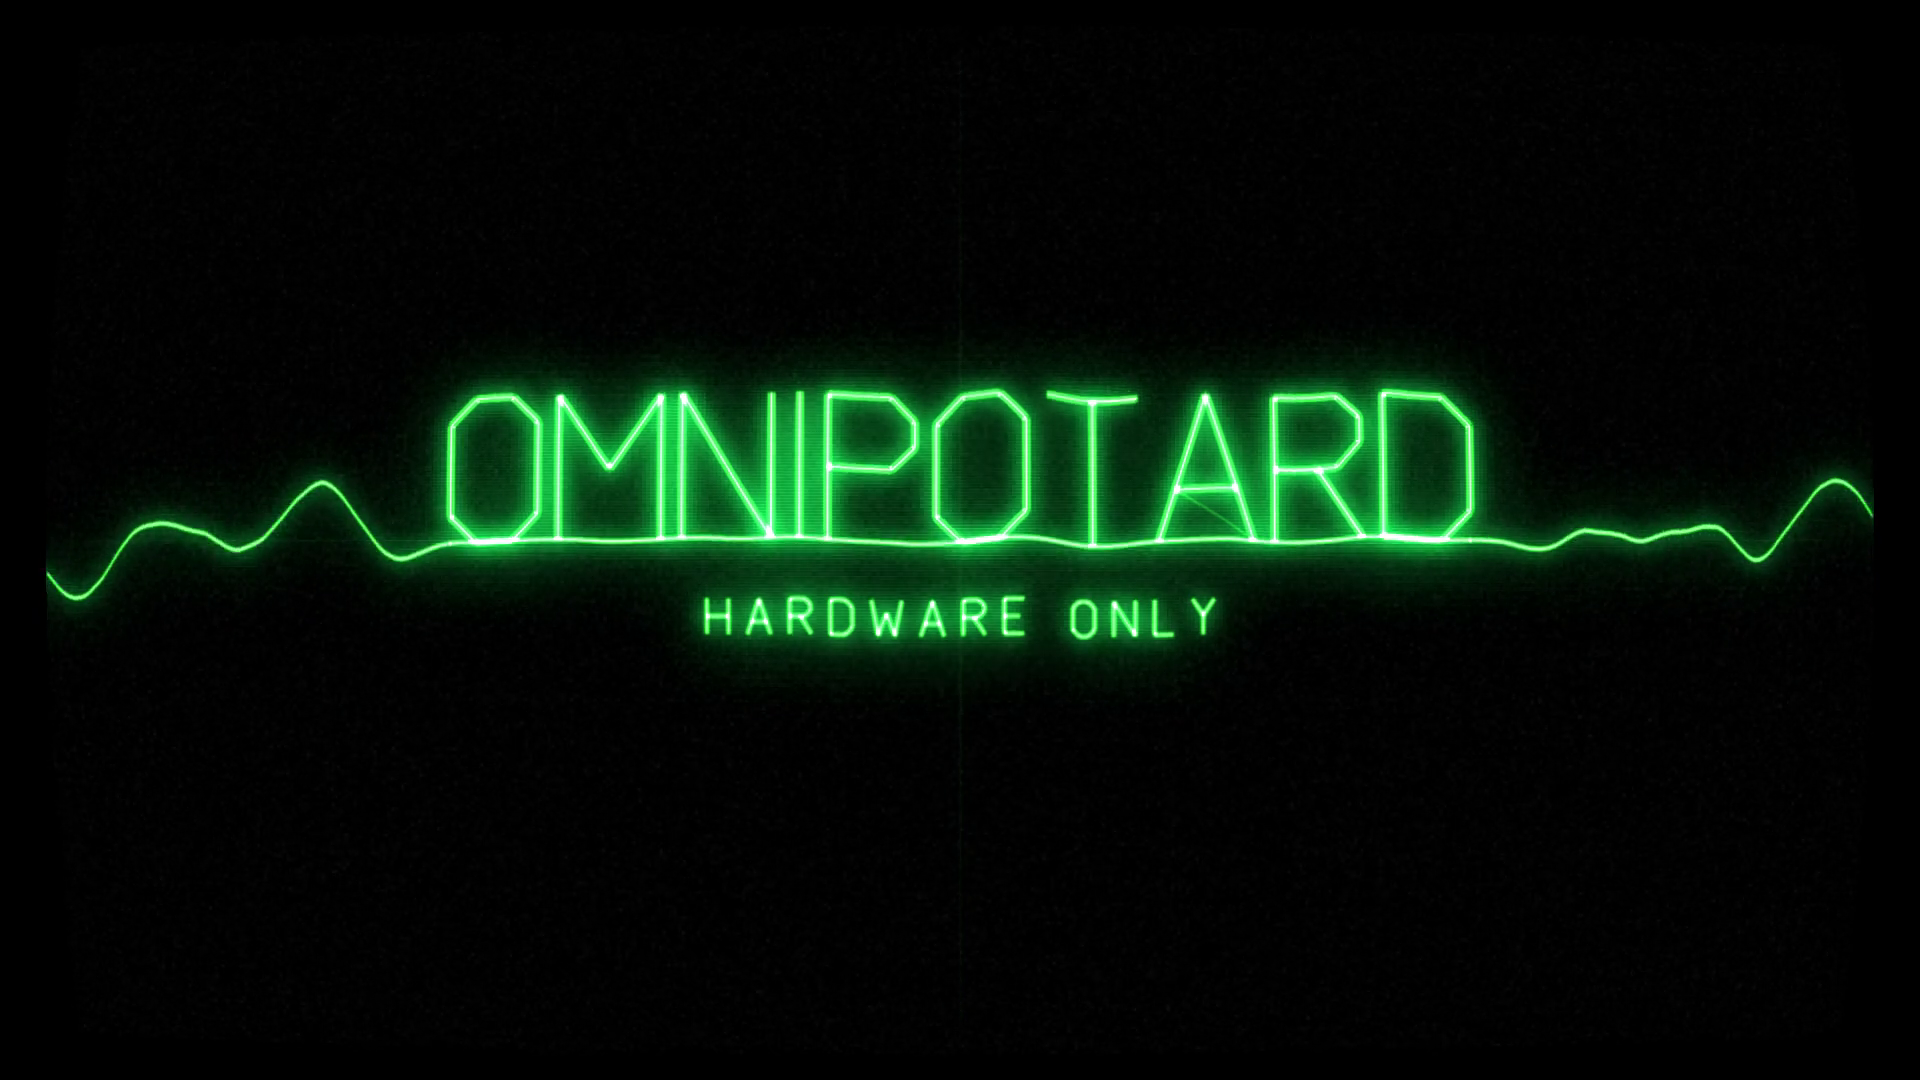
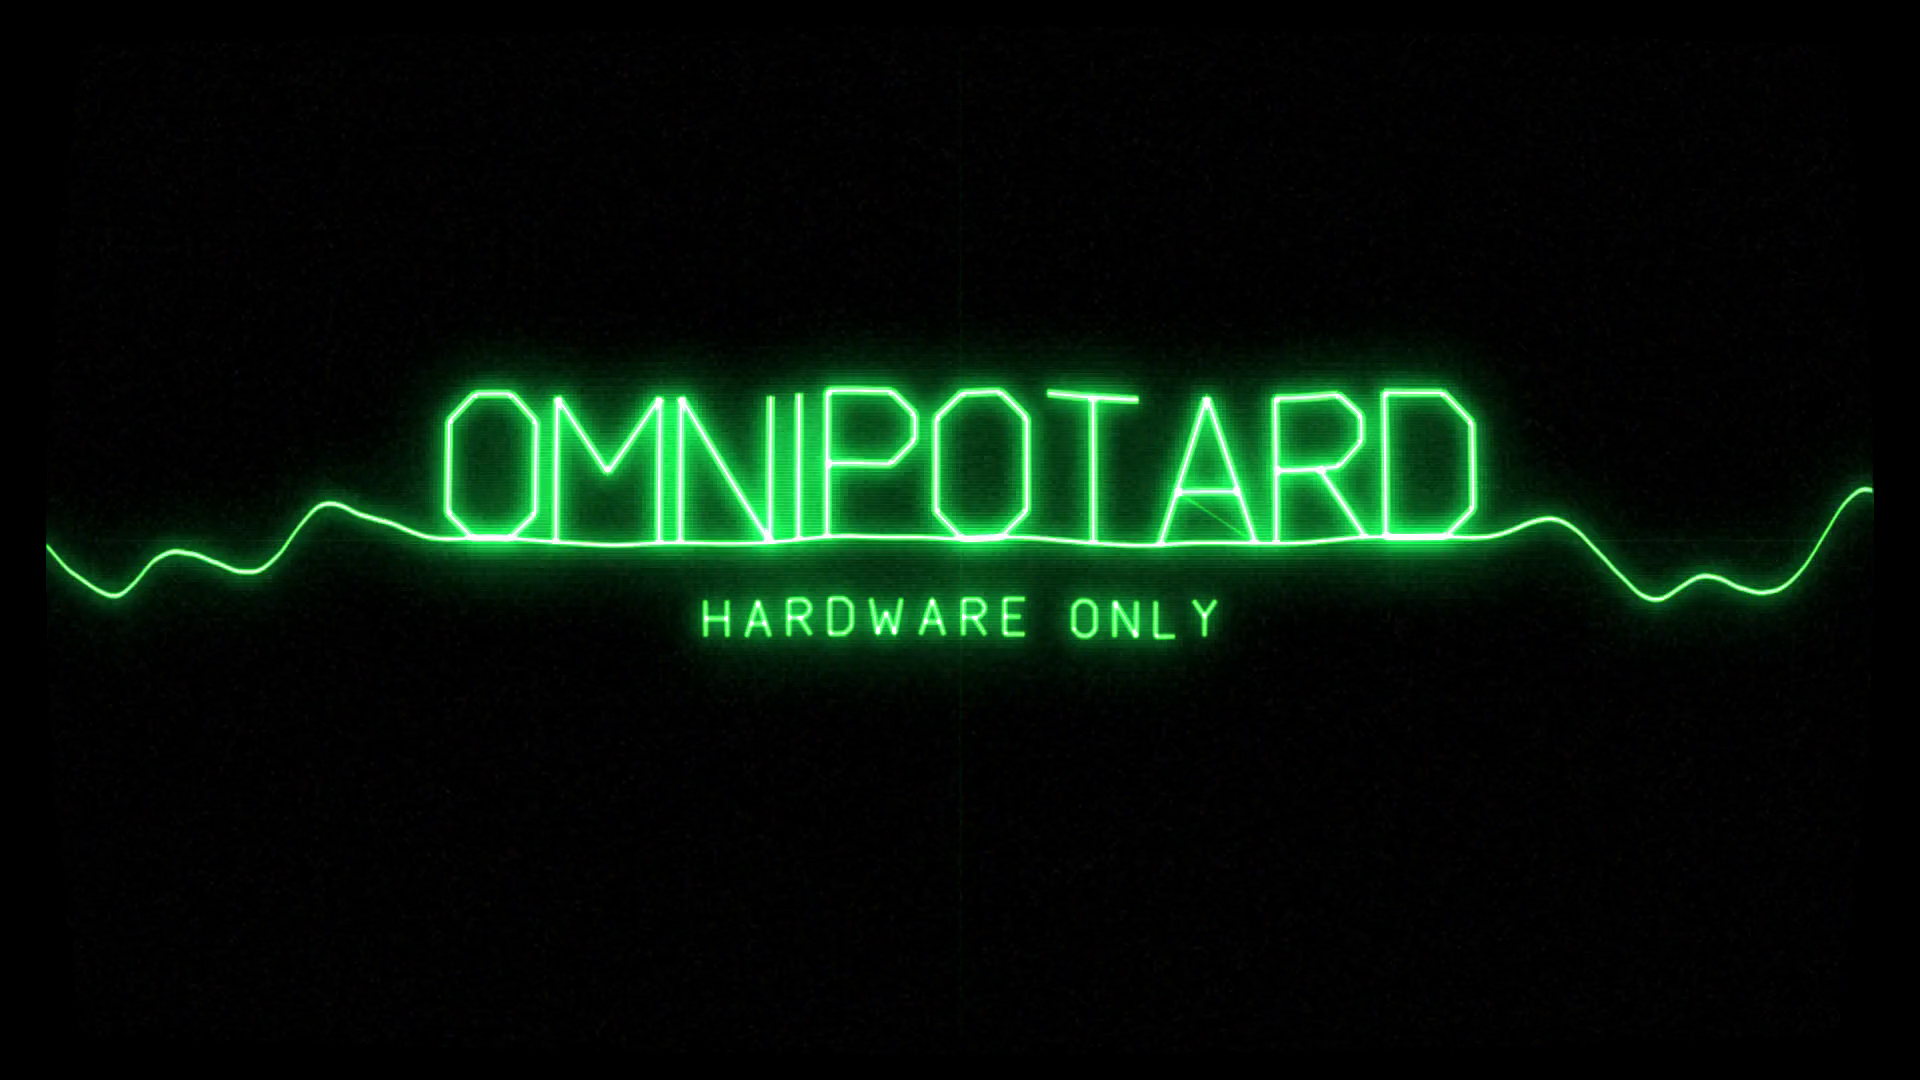
Utiliser un morceau existant, pads cales sur sa vraie batterie
- Nouveau bloc de chargement : decodage d'un extrait, detection du tempo par
  autocorrelation de la courbe d'attaque (avec correction d'octave, sinon un
  extrait court fait attraper la demi-periode) et detection des coups par
  bande. Grave, medium et aigu deviennent grosse caisse, caisse claire et
  charley, chaque famille gardant son pad pour qu'on reconnaisse l'instrument
  a l'endroit ou il s'allume. Un decalage compense la latence de detection.
- L'extrait est choisi a 19,82 s : le morceau y enchaine musique, break d'une
  seconde puis drop sur une barre de mesure, ce qui epouse exactement la
  dramaturgie de l'image. La timeline est recalee sur son tempo (84,7 BPM) et
  le drop tombe a la milliseconde sur le debut du groove.
- Montage : le morceau est etouffe avant le drop, evide de ses graves et
  baisse pendant le break, rouvert sur l'impact, puis ferme a l'extinction.
- Les FX de synthese sont conserves tels quels : souffle d'entree, souffle du
  break, impact du titre, souffle et coup de sortie.
- La bande-son entierement synthetique reste accessible via --synth, et sert
  de repli automatique si le morceau est absent.
- Le morceau n'est pas versionne : il se depose dans assets/.

Claude-Session: https://claude.ai/code/session_01GX8QgDCpZfSKkT6ycQpRqH

Changed region(s): [[0.0, 0.3361, 0.9688, 0.5806], [0.3438, 0.55, 0.5312, 0.6111], [0.5625, 0.55, 0.6562, 0.6111]]

diff --git a/tools/omnipotard_intro.py b/tools/omnipotard_intro.py
@@ -39,7 +39,9 @@ VERT_FLUO = (0.24, 1.00, 0.16)   # #39FF14
 VERT_HALO = (0.10, 1.00, 0.34)   # halo legerement plus froid
 
 SR = 48000
-DUREE_REF = 9.625                # 20 temps a 125 BPM
+DUREE_REF = 9.916                # 14 temps a 84,7 BPM (le tempo du morceau)
+MUSIC_PATH = "assets/hint.mp3"   # morceau utilise ; --music pour en changer
+MUSIC_START = 19.8209             # le drop du morceau tombe pile sur la barre
 
 
 # ==========================================================================
@@ -666,7 +668,8 @@ def synth_audio(duration=DUREE_REF, sr=SR, seed=3):
     st = np.stack([mix, right], axis=1)
     events.sort()
     return {"stereo": (np.clip(st, -1, 1) * 32767).astype("<i2"),
-            "mono": mix.astype(np.float32), "events": events, "sr": sr}
+            "mono": mix.astype(np.float32), "events": events, "sr": sr,
+            "beat": beat}
 
 
 def write_wav(path, data, sr=SR):
@@ -683,14 +686,14 @@ def write_wav(path, data, sr=SR):
 
 class Timeline:
     REF = DUREE_REF
-    KEYS = [                        # cales sur les temps (0,48125 s)
-        ("boot", 0.0000, 0.9625),   # la piste s'enregistre
-        ("sweep", 0.9625, 3.3688),  # le clip se transforme en machine
-        ("groove", 2.8875, 4.8125),  # le drop tombe avant la fin de la mue : la
-        ("melt", 4.8125, 5.7750),   # machine joue deja pendant qu'elle se
-        ("title", 5.7750, 8.1813),  # termine, ce qui resserre le montage
-        ("hold", 8.1813, 9.3500),
-        ("out", 9.3500, 9.6250),
+    KEYS = [                        # cales sur les temps du morceau (0,7082 s)
+        ("boot", 0.0000, 1.0623),   # la piste s'enregistre, sur la musique
+        ("sweep", 1.0623, 3.1870),  # la mue se joue pendant le break du morceau
+        ("groove", 2.8329, 5.6658),  # le drop du morceau, une mesure pleine
+        ("melt", 5.6658, 6.3740),
+        ("title", 6.3740, 8.4987),
+        ("hold", 8.4987, 9.5610),
+        ("out", 9.5610, 9.9160),
     ]
 
     def __init__(self, duration):
@@ -709,8 +712,8 @@ class Timeline:
         return self.seg[name][1]
 
 
-GLITCHES = [(2.87, .09), (3.85, .05), (4.79, .10), (5.75, .11),
-            (8.17, .06), (8.80, .05), (9.10, .06)]
+GLITCHES = [(2.82, .09), (3.90, .05), (5.64, .10), (6.36, .11),
+            (8.49, .06), (9.00, .05), (9.35, .06)]
 
 
 # ==========================================================================
@@ -743,8 +746,8 @@ class Renderer:
         self.tl = Timeline(duration)
         self.curve = curve
         self.seed = seed
-        self.bar = duration / 4.0
-        self.six = self.bar / 16.0
+        self.beat = float(audio.get("beat") or duration / 20.0)
+        self.six = self.beat / 4.0           # la double-croche du morceau
 
         # la machine reste cadree quel que soit le format (16/9, carre, vertical)
         self.scale = min(h * 0.5, w * 0.5 / 1.30)
@@ -1437,13 +1440,26 @@ def main():
     ap.add_argument("--crf", type=int, default=16)
     ap.add_argument("--jobs", type=int, default=os.cpu_count() or 2)
     ap.add_argument("--seed", type=int, default=7)
+    ap.add_argument("--music", default=MUSIC_PATH,
+                    help="morceau a utiliser ; vide ou --synth pour la musique de synthese")
+    ap.add_argument("--music-start", type=float, default=MUSIC_START,
+                    help="debut de l'extrait dans le morceau (s)")
+    ap.add_argument("--synth", action="store_true", help="force la bande-son de synthese")
     ap.add_argument("--no-curve", action="store_true", help="desactive la courbure CRT")
     ap.add_argument("--no-audio", action="store_true", help="video muette (l'image reste pilotee par le son)")
     ap.add_argument("--stills", default="", help="dossier ou exporter des images cles PNG")
     ap.add_argument("--still-times", default="0.9,1.7,2.1,2.6,4.2,6.2,7.6,8.4,9.1,10.0,10.8")
     args = ap.parse_args()
 
-    audio = synth_audio(args.duration, seed=args.seed)
+    if args.synth or not args.music or not os.path.exists(args.music):
+        if args.music and not args.synth and not os.path.exists(args.music):
+            print("morceau introuvable (%s) -> bande-son de synthese" % args.music, flush=True)
+        audio = synth_audio(args.duration, seed=args.seed)
+    else:
+        audio = load_music(args.music, args.duration, args.music_start, seed=args.seed)
+        print("morceau %s  extrait a %.2f s  battement %.4f s (%.1f BPM)  %d coups detectes"
+              % (args.music, args.music_start, audio["beat"], 60.0 / audio["beat"],
+                 len(audio["events"])), flush=True)
 
     global _R
     _R = Renderer(args.width, args.height, args.fps, args.duration, audio,
@@ -1502,6 +1518,159 @@ def main():
     print("\n%s  (%.1f s, %dx%d @ %dfps)" % (args.out, args.duration, args.width,
                                              args.height, args.fps))
 
+
+
+# ==========================================================================
+#  Morceau existant : chargement, analyse de la batterie, montage
+#  L'image reste pilotee par le son — les pads suivent donc les vrais coups.
+# ==========================================================================
+
+def _decode(path, start, duration, sr=SR):
+    """Decode un extrait en stereo flottant (recherche precise a l'echantillon)."""
+    out = subprocess.run(
+        ["ffmpeg", "-v", "error", "-i", path, "-ss", "%.6f" % start,
+         "-t", "%.6f" % duration, "-ac", "2", "-ar", str(sr), "-f", "f32le", "-"],
+        stdout=subprocess.PIPE, check=True).stdout
+    st = np.frombuffer(out, dtype="<f4").astype(np.float64).reshape(-1, 2)
+    n = int(duration * sr) + 1
+    if len(st) < n:
+        st = np.vstack([st, np.zeros((n - len(st), 2))])
+    return st[:n]
+
+
+def _frames(x, sr, hop=256, win=1024):
+    n = max(1, (len(x) - win) // hop)
+    idx = np.arange(n)[:, None] * hop + np.arange(win)[None, :]
+    S = np.abs(np.fft.rfft(x[idx] * np.hanning(win), axis=1))
+    return S, np.fft.rfftfreq(win, 1.0 / sr), sr / hop
+
+
+def _band_flux(S, freqs, lo, hi):
+    e = S[:, (freqs >= lo) & (freqs < hi)].sum(axis=1)
+    return np.maximum(np.diff(e, prepend=e[0]), 0.0)
+
+
+def _pick(flux, fps, thresh=2.0, gap=0.055):
+    """Sommets d'une courbe d'attaque -> (instant, force)."""
+    f = _lowpass(flux / (flux.std() + 1e-9), 3)
+    cand = np.where((f[1:-1] > thresh) & (f[1:-1] >= f[:-2]) & (f[1:-1] >= f[2:]))[0] + 1
+    out, last = [], -9.0
+    for i in cand:
+        t = i / fps
+        if t - last >= gap:
+            out.append((t, float(min(1.0, f[i] / (thresh * 2.6)))))
+            last = t
+    return out
+
+
+def detect_beat(mono, sr):
+    """Periode du battement, par autocorrelation de la courbe d'attaque."""
+    S, freqs, fps = _frames(mono, sr)
+    onset = sum(_band_flux(S, freqs, lo, hi) / (_band_flux(S, freqs, lo, hi).std() + 1e-9)
+                for lo, hi in ((30, 140), (160, 1200), (4000, 10000)))
+    o = onset - onset.mean()
+    ac = np.correlate(o, o, mode="full")[len(o) - 1:]
+    lags = np.arange(len(ac)) / fps
+    sel = (lags > 0.30) & (lags < 1.10)
+    i0 = int(np.where(sel)[0][0])
+    best = int(np.argmax(ac[sel])) + i0
+    # correction d'octave : sur un extrait court, l'autocorrelation attrape
+    # souvent la demi-periode. On remonte tant que le double est presque
+    # aussi fort et reste dans une plage de tempo credible.
+    for _ in range(2):
+        dbl = best * 2
+        if dbl < len(ac) and lags[dbl] < 1.10 and ac[dbl] > 0.72 * ac[best]:
+            best = dbl
+    return float(lags[best])
+
+
+def detect_hits(mono, sr):
+    """Coups de batterie par bande -> evenements de pads.
+
+    grave -> grosse caisse, medium -> caisse claire et percussions,
+    aigu -> charleston. Chaque famille garde le meme pad, pour qu'on
+    reconnaisse l'instrument a l'endroit ou il s'allume.
+    """
+    S, freqs, fps = _frames(mono, sr)
+    lag = 0.025          # la detection voit l'attaque au debut de sa fenetre
+    ev = []
+    for (lo, hi), kind, thresh, gap in (((30, 140), "kick", 2.1, 0.14),
+                                        ((160, 1200), "rim", 2.3, 0.10),
+                                        ((4000, 10000), "hat", 2.0, 0.055)):
+        for i, (t, f) in enumerate(_pick(_band_flux(S, freqs, lo, hi), fps, thresh, gap)):
+            if kind == "kick":
+                pads = (PAD_OF["kick"],) if f > 0.45 else (1,)
+            elif kind == "rim":
+                pads = (PAD_OF["rim"],) if f > 0.55 else (PAD_OF["perc"],)
+            else:
+                pads = (10, 11)[i % 2],
+            for pad in pads:
+                ev.append((t + lag, pad, max(0.30, f), DECAY_OF[kind]))
+    ev.sort()
+    return ev
+
+
+def _ramp(t, pts):
+    return np.interp(t, [p[0] for p in pts], [p[1] for p in pts])
+
+
+def load_music(path=MUSIC_PATH, duration=DUREE_REF, start=MUSIC_START, sr=SR, seed=3):
+    """Monte un extrait du morceau sur la scenographie, y ajoute les FX de
+    synthese (souffles, impact, sortie) et en extrait la batterie."""
+    tl = Timeline(duration)
+    st = _decode(path, start, duration, sr)
+    n = len(st)
+    mono_src = st.mean(axis=1)
+    beat = detect_beat(mono_src, sr)
+    events = detect_hits(mono_src, sr)
+
+    t = np.arange(n) / sr
+    g0 = tl.start("groove")
+    m0, t0, o0 = tl.start("melt"), tl.start("title"), tl.start("out")
+
+    # --- montage : le morceau est mat avant le drop, evide pendant le break
+    dull = np.stack([_lowpass(st[:, c], 42) for c in range(2)], axis=1)
+    thin = st - np.stack([_lowpass(st[:, c], 30) for c in range(2)], axis=1)
+    a_dull = _ramp(t, [(0, .80), (g0 - 0.30, .70), (g0 - 0.02, .05), (g0, 0)])[:, None]
+    a_thin = _ramp(t, [(0, 0), (m0 - 0.02, 0), (m0 + 0.10, .85), (t0 - 0.12, .85),
+                       (t0, 0)])[:, None]
+    gain = _ramp(t, [(0, .62), (g0 - 0.02, .70), (g0, 1.0), (m0, 1.0), (m0 + 0.10, .55),
+                     (t0, 1.0), (o0, 1.0), (o0 + 0.16, 0.0)])[:, None]
+    mix = (st * (1.0 - a_dull - a_thin) + dull * a_dull + thin * a_thin) * gain
+
+    # --- les FX, conserves tels quels
+    rng = np.random.default_rng(seed)
+    fx = np.zeros(n)
+
+    def add(sig, at, g=1.0):
+        i0 = max(0, int(at * sr))
+        i1 = min(n, i0 + len(sig))
+        if i1 > i0:
+            fx[i0:i1] += sig[:i1 - i0] * g
+
+    add(_whoosh(max(0.2, g0 - 0.02), sr, rng, up=True), 0.02, 1.05)     # riser d'entree
+    add(_whoosh(max(0.2, t0 - m0), sr, rng, up=True), m0, 1.15)         # riser du break
+    ti = np.arange(int(min(3.0, duration - t0) * sr)) / sr              # impact du titre
+    fi = 30.0 + 120.0 * np.exp(-ti * 9.0)
+    imp = np.sin(2 * math.pi * np.cumsum(fi) / sr) * np.exp(-ti * 1.9) * 0.80
+    imp += _lowpass(rng.standard_normal(len(ti)), 12) * np.exp(-ti * 3.5) * 0.22
+    add(imp, t0)
+    add(_whoosh(0.30, sr, rng, up=True), o0 - 0.24, 0.85)               # sortie
+    add(_whoosh(max(0.12, duration - o0), sr, rng, up=False), o0, 0.95)
+    tq = np.arange(int(min(0.35, duration - o0) * sr)) / sr
+    fq = 90.0 * np.exp(-tq * 14.0) + 26.0
+    add(np.sin(2 * math.pi * np.cumsum(fq) / sr) * np.exp(-tq * 7.0) * 0.55, o0)
+    fx *= _ramp(t, [(0, 1), (o0 + 0.20, 1), (duration, 0)])
+
+    mix += fx[:, None] * 0.95
+    mix = _tanh_limit(mix * 0.92, 1.35)
+    fade = (np.clip(t / 0.03, 0, 1) * np.clip((duration - t) / 0.10, 0, 1))[:, None]
+    mix *= fade
+    mix /= (np.max(np.abs(mix)) or 1.0) / 0.94
+
+    m = mix.mean(axis=1)
+    return {"stereo": (np.clip(mix, -1, 1) * 32767).astype("<i2"),
+            "mono": m.astype(np.float32), "events": events, "sr": sr, "beat": beat}
 
 if __name__ == "__main__":
     main()

diff --git a/README.md b/README.md
@@ -7,20 +7,20 @@ sort, écrit d'un seul trait continu par la courbe audio.
 
 ![affiche](out/omnipotard_poster.png)
 
-## Le déroulé (9,6 s — 20 temps à 125 BPM, 1920×1080 @ 60 fps)
+## Le déroulé (9,9 s — 14 temps à 84,7 BPM, calé sur le morceau)
 
 Tout est calé sur la grille musicale : le balayage se termine **pile sur le
 drop**, et le titre apparaît **pile sur l'impact**.
 
 | temps | séquence | ce qui se passe |
 |---|---|---|
-| 0,0 – 0,96 s | **enregistrement** | une piste s'enregistre comme dans une station de travail : cadre de clip, bandeau « AUDIO 01 », règle temporelle, témoin REC, et la **forme d'onde du morceau** qui se remplit de gauche à droite derrière la tête d'enregistrement |
-| 0,96 – 3,37 s | **transformation** | le clip **se déplie en MPC Live III** : chaque point de la machine part écrasé dans l'enveloppe de la forme d'onde et s'ouvre à sa place, de gauche à droite. La zone de mue est large — à chaque instant une bonne partie de la machine est en train de s'ouvrir |
-| 2,89 – 4,81 s | **groove dub techno** | le drop tombe **avant la fin de la mue** : la machine joue déjà (pads, bande de 16 pas, écran) pendant que son flanc droit finit de se déployer |
-| 4,81 – 5,78 s | **break** | souffle ; la machine fond dans la forme d'onde du morceau |
-| 5,78 – 8,18 s | **titre** | impact, puis un front de lecture **balaie lentement de gauche à droite** : les lettres se détachent du fil d'onde une par une, puis **HARDWARE ONLY** passe sous le nom |
-| 8,18 – 9,35 s | **maintien** | le logo repose sur le fil, qui continue de vibrer avec la musique |
-| 9,35 – 9,63 s | **extinction** | **rafales de glitch** (déchirures, datamosh, pertes de signal, décalage RVB), souffle de sortie, puis collapse cathodique |
+| 0,0 – 1,06 s | **enregistrement** | une piste s'enregistre comme dans une station de travail : cadre de clip, bandeau « AUDIO 01 », règle temporelle, témoin REC, et la **forme d'onde du morceau** qui se remplit derrière la tête d'enregistrement. Le morceau joue, étouffé |
+| 1,06 – 3,19 s | **transformation** | le clip **se déplie en MPC Live III**, pendant le break du morceau — chaque point de la machine part écrasé dans l'enveloppe de la forme d'onde et s'ouvre à sa place |
+| 2,83 – 5,67 s | **groove** | **le drop du morceau** tombe pile ici, avant la fin de la mue : la machine joue déjà pendant que son flanc droit finit de se déployer |
+| 5,67 – 6,37 s | **break** | le morceau est évidé de ses graves et baissé, un souffle monte, la machine fond dans la forme d'onde |
+| 6,37 – 8,50 s | **titre** | impact, puis un front de lecture **balaie lentement de gauche à droite** : les lettres se détachent du fil d'onde une par une, puis **HARDWARE ONLY** passe sous le nom |
+| 8,50 – 9,56 s | **maintien** | le logo repose sur le fil, qui continue de vibrer avec la musique |
+| 9,56 – 9,92 s | **extinction** | **rafales de glitch**, souffle de sortie, puis collapse cathodique |
 
 ## L'image est pilotée par le son
 
@@ -36,8 +36,10 @@ refaire à la main :
   toute l'image et le mot est **posé dessus** : logo et onde ne font qu'un trait ;
 - le clip d'ouverture affiche l'enveloppe crête **du morceau lui-même** : on y
   voit le drop, le groove, le break, l'impact et la traîne ;
-- chaque pad s'allume sur l'évènement qui le déclenche : grosse caisse, rimshot,
-  charley, notes de basse, accords ;
+- **les pads suivent la vraie batterie du morceau** : le script détecte les
+  attaques par bande (grave → grosse caisse, medium → caisse claire et
+  percussions, aigu → charley) et chaque famille garde son pad, pour qu'on
+  reconnaisse l'instrument à l'endroit où il s'allume ;
 - la bande de 16 pas suit le pas courant du séquenceur ;
 - le fil d'onde **s'allume légèrement à chaque coup grave** (grosse caisse et
   notes de basse), avec un halo qui s'ajoute au trait ;
@@ -63,11 +65,15 @@ marquage et grille de haut-parleur en bas.
 ```bash
 pip install numpy pillow          # pillow seulement pour --stills
 sudo apt install ffmpeg
+# placer le morceau dans assets/hint.mp3 (non versionné), puis :
 python3 tools/omnipotard_intro.py -o out/omnipotard_intro_1080p60.mp4
 ```
 
+Le morceau n'est **pas versionné** : il faut le déposer dans `assets/`. Sans
+lui, le script bascule tout seul sur la bande-son de synthèse.
+
 Le rendu est **déterministe** (tout est graine + temps) : deux exécutions
-donnent le même fichier au bit près. Environ 1 min 55 sur 4 cœurs.
+donnent le même fichier au bit près. Environ 2 min sur 4 cœurs.
 
 ### Options utiles
 
@@ -85,6 +91,9 @@ python3 tools/omnipotard_intro.py --stills out/stills --still-times 0.6,1.9,2.85
 --duration 8        # toute la timeline se remet à l'échelle (le tempo reste dans les 80-90 BPM)
 --fps 30            # ou 24, 50…
 --crf 12            # qualité d'encodage (plus bas = plus gros)
+--music autre.mp3   # un autre morceau (le tempo et la batterie sont redétectés)
+--music-start 41.2  # où commencer l'extrait, à caler sur une barre de mesure
+--synth             # revenir à la bande-son entièrement synthétisée
 --no-audio          # image seule, mais l'animation reste pilotée par le son
 --no-curve          # supprime la courbure du tube cathodique
 --seed 12           # change le grain et les décalages de glitch
@@ -113,10 +122,13 @@ Tout est dans `tools/omnipotard_intro.py`, en unités « demi-hauteur d'image »
   partie du tracé ondule avec la musique) ;
 - **la vitesse d'apparition des lettres** : `Renderer.title_front()` — le front
   ralentit sur la largeur du mot ; élargir le palier central espace les lettres ;
-- **la musique** : `KICKS`, `RIMS`, `HATS`, `SKANKS`, `BASSLINE` (motif de
-  16 pas), `NOTES` (la gamme), et les voix `kick()`, `chord()`, `shaker()`,
-  `rimshot()`, `bass()` dans `synth_audio()` ; l'écho à bande et la réverbe se
-  règlent dans le bloc « mixage » ;
+- **le montage du morceau** : `load_music()` — les courbes `a_dull`, `a_thin` et
+  `gain` sont l'automation (étouffé, évidé, plein) ; `MUSIC_START` choisit
+  l'extrait ;
+- **la détection de la batterie** : `detect_hits()` (seuils et écart minimum par
+  bande) et `detect_beat()` ;
+- **la musique de synthèse** (`--synth`) : `KICKS`, `RIMS`, `HATS`, `SKANKS`,
+  `BASSLINE`, `NOTES` et les voix de `synth_audio()` ;
 - **quel pad s'allume sur quoi** : `PAD_OF`, `PAD_BASS`, `PAD_SKANK` ;
 - **la machine** : `build_mpc()` — chaque organe est un `Path` étiqueté
   (`body`, `step0…step15`, `lcd`, `qlink*`, `wheel`, `strip`, `pad0…pad15`) ;
